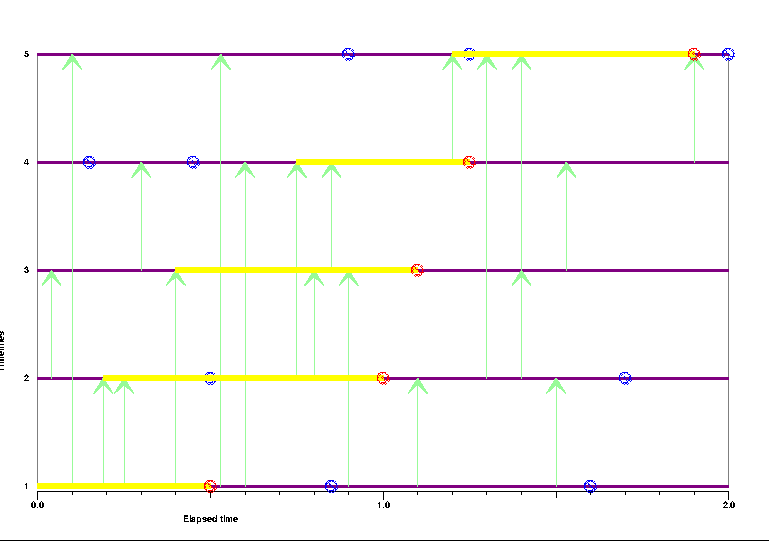
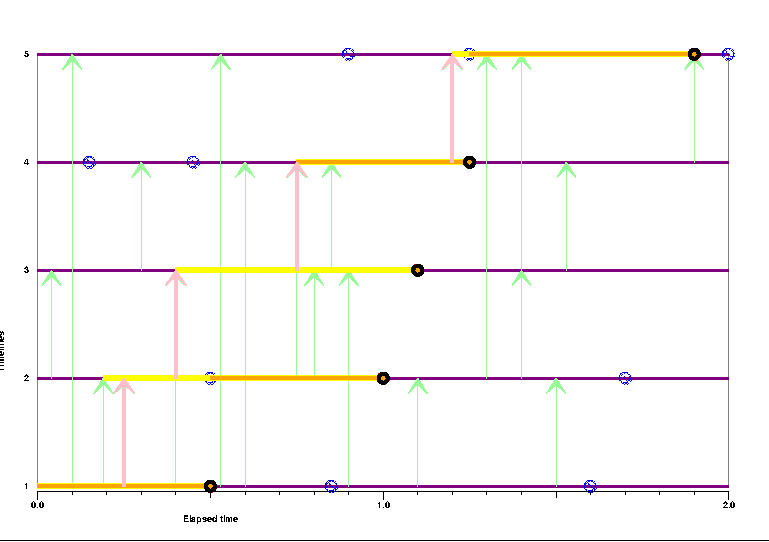
Corrected Figure 5. But still some bugs, I think.

diff --git a/PerfectEpidemics.tex b/PerfectEpidemics.tex
@@ -1336,7 +1336,8 @@ However it is always possible for \(\Removals^m_k=\emptyset\) for some or all \(
 \NB[WSK3]{Figure \ref{fig:last-epidemic} needs checking: May not be what is required.}
  \begin{Figure}
   \includegraphics[width=3in]{last-epidemic}
-  \caption{Infection window and last viable epidemic trajectory (pink vertical arrows, sometimes overwriting yellow vertical arrows for the first epidemic) for this graphical representation.\label{fig:last-epidemic}}
+  \caption{Infection window and last viable epidemic trajectory (pink vertical arrows, sometimes overwriting yellow vertical arrows for the first epidemic) for this graphical representation.
+  \textbf{I think some of these last viable infections are currently wrong in the figure!}\label{fig:last-epidemic}}
  \end{Figure}
 
  The fourth region
@@ -1363,7 +1364,9 @@ individual \(m\) is removed (at time \(\rho^m\)).
 \NB[WSK3]{Figure \ref{fig:fourth-and-fifth}: suspect last-viable epidemic is sometimes wrong here.}
   \begin{Figure}
   \includegraphics[width=3in]{fourth-and-fifth.png}
-  \caption{Post-infection and dead zones for this graphical representation.\label{fig:fourth-and-fifth}}
+  \caption{Post-infection and dead zones for this graphical representation. (Post-infection zones lie between bottoms of pink arrows and observed removals.)
+  \textbf{I think some of these zones are currently wrong in the figure!}
+  \label{fig:fourth-and-fifth}} 
  \end{Figure}
 
 
